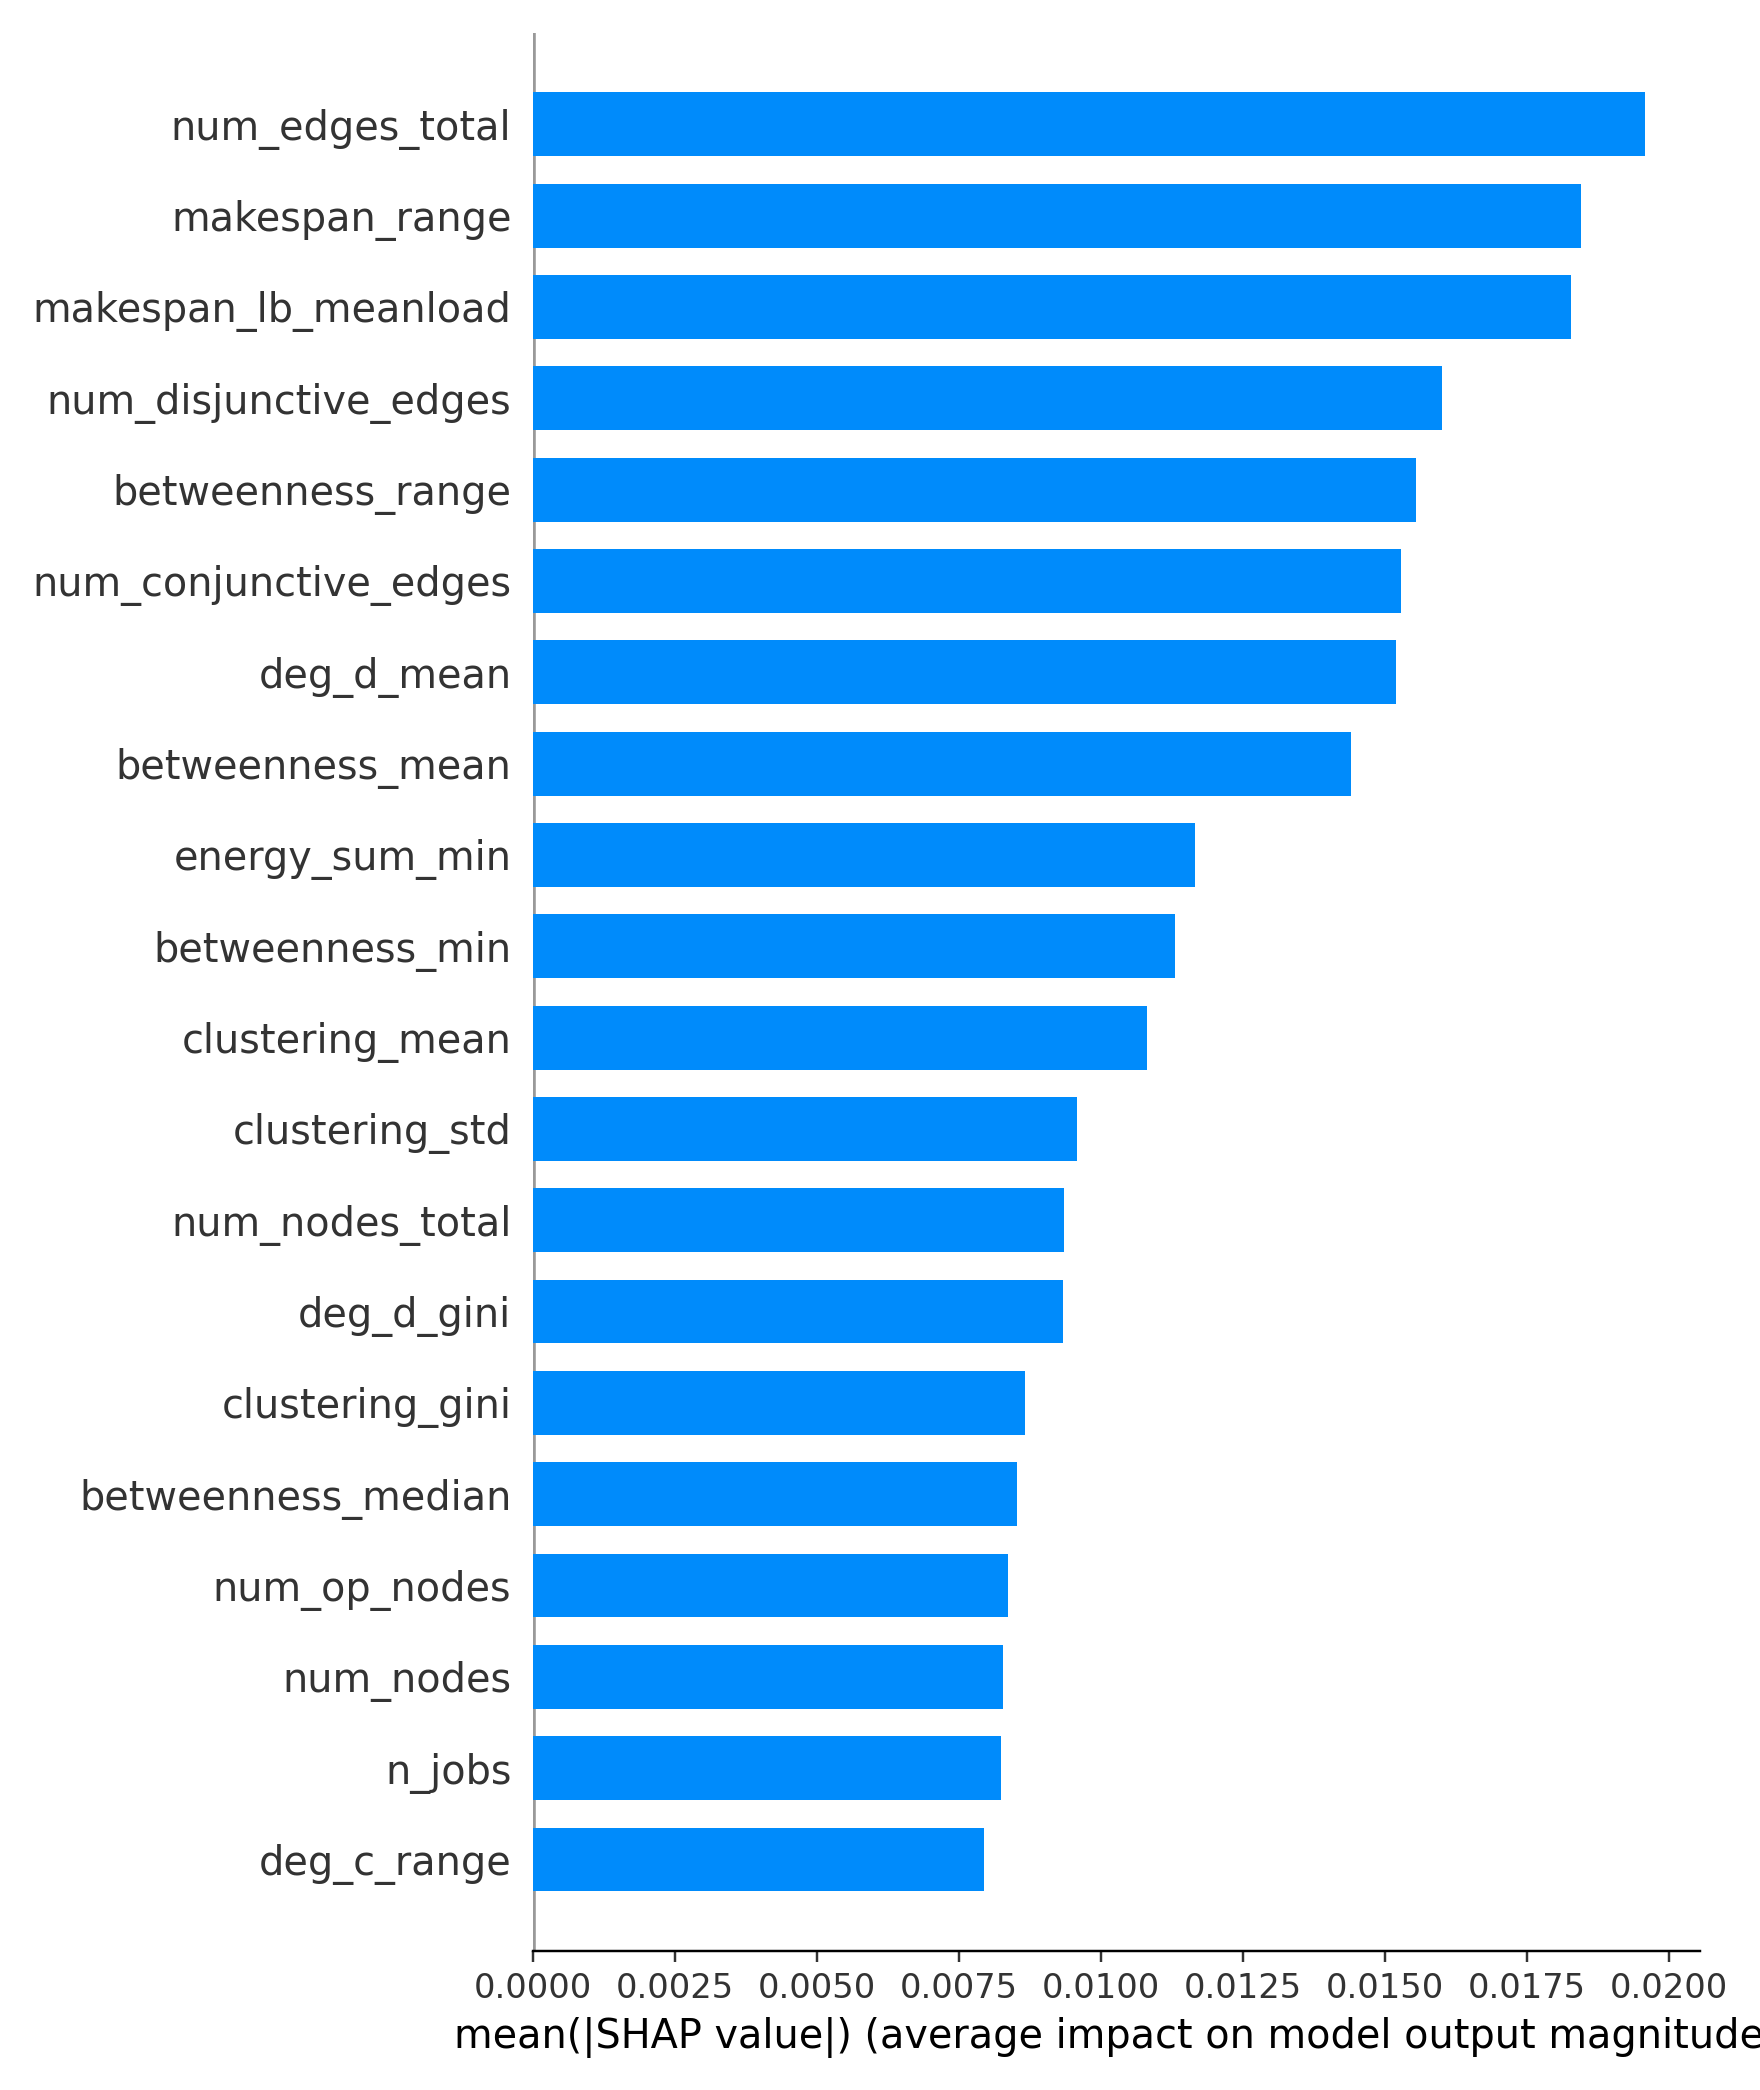
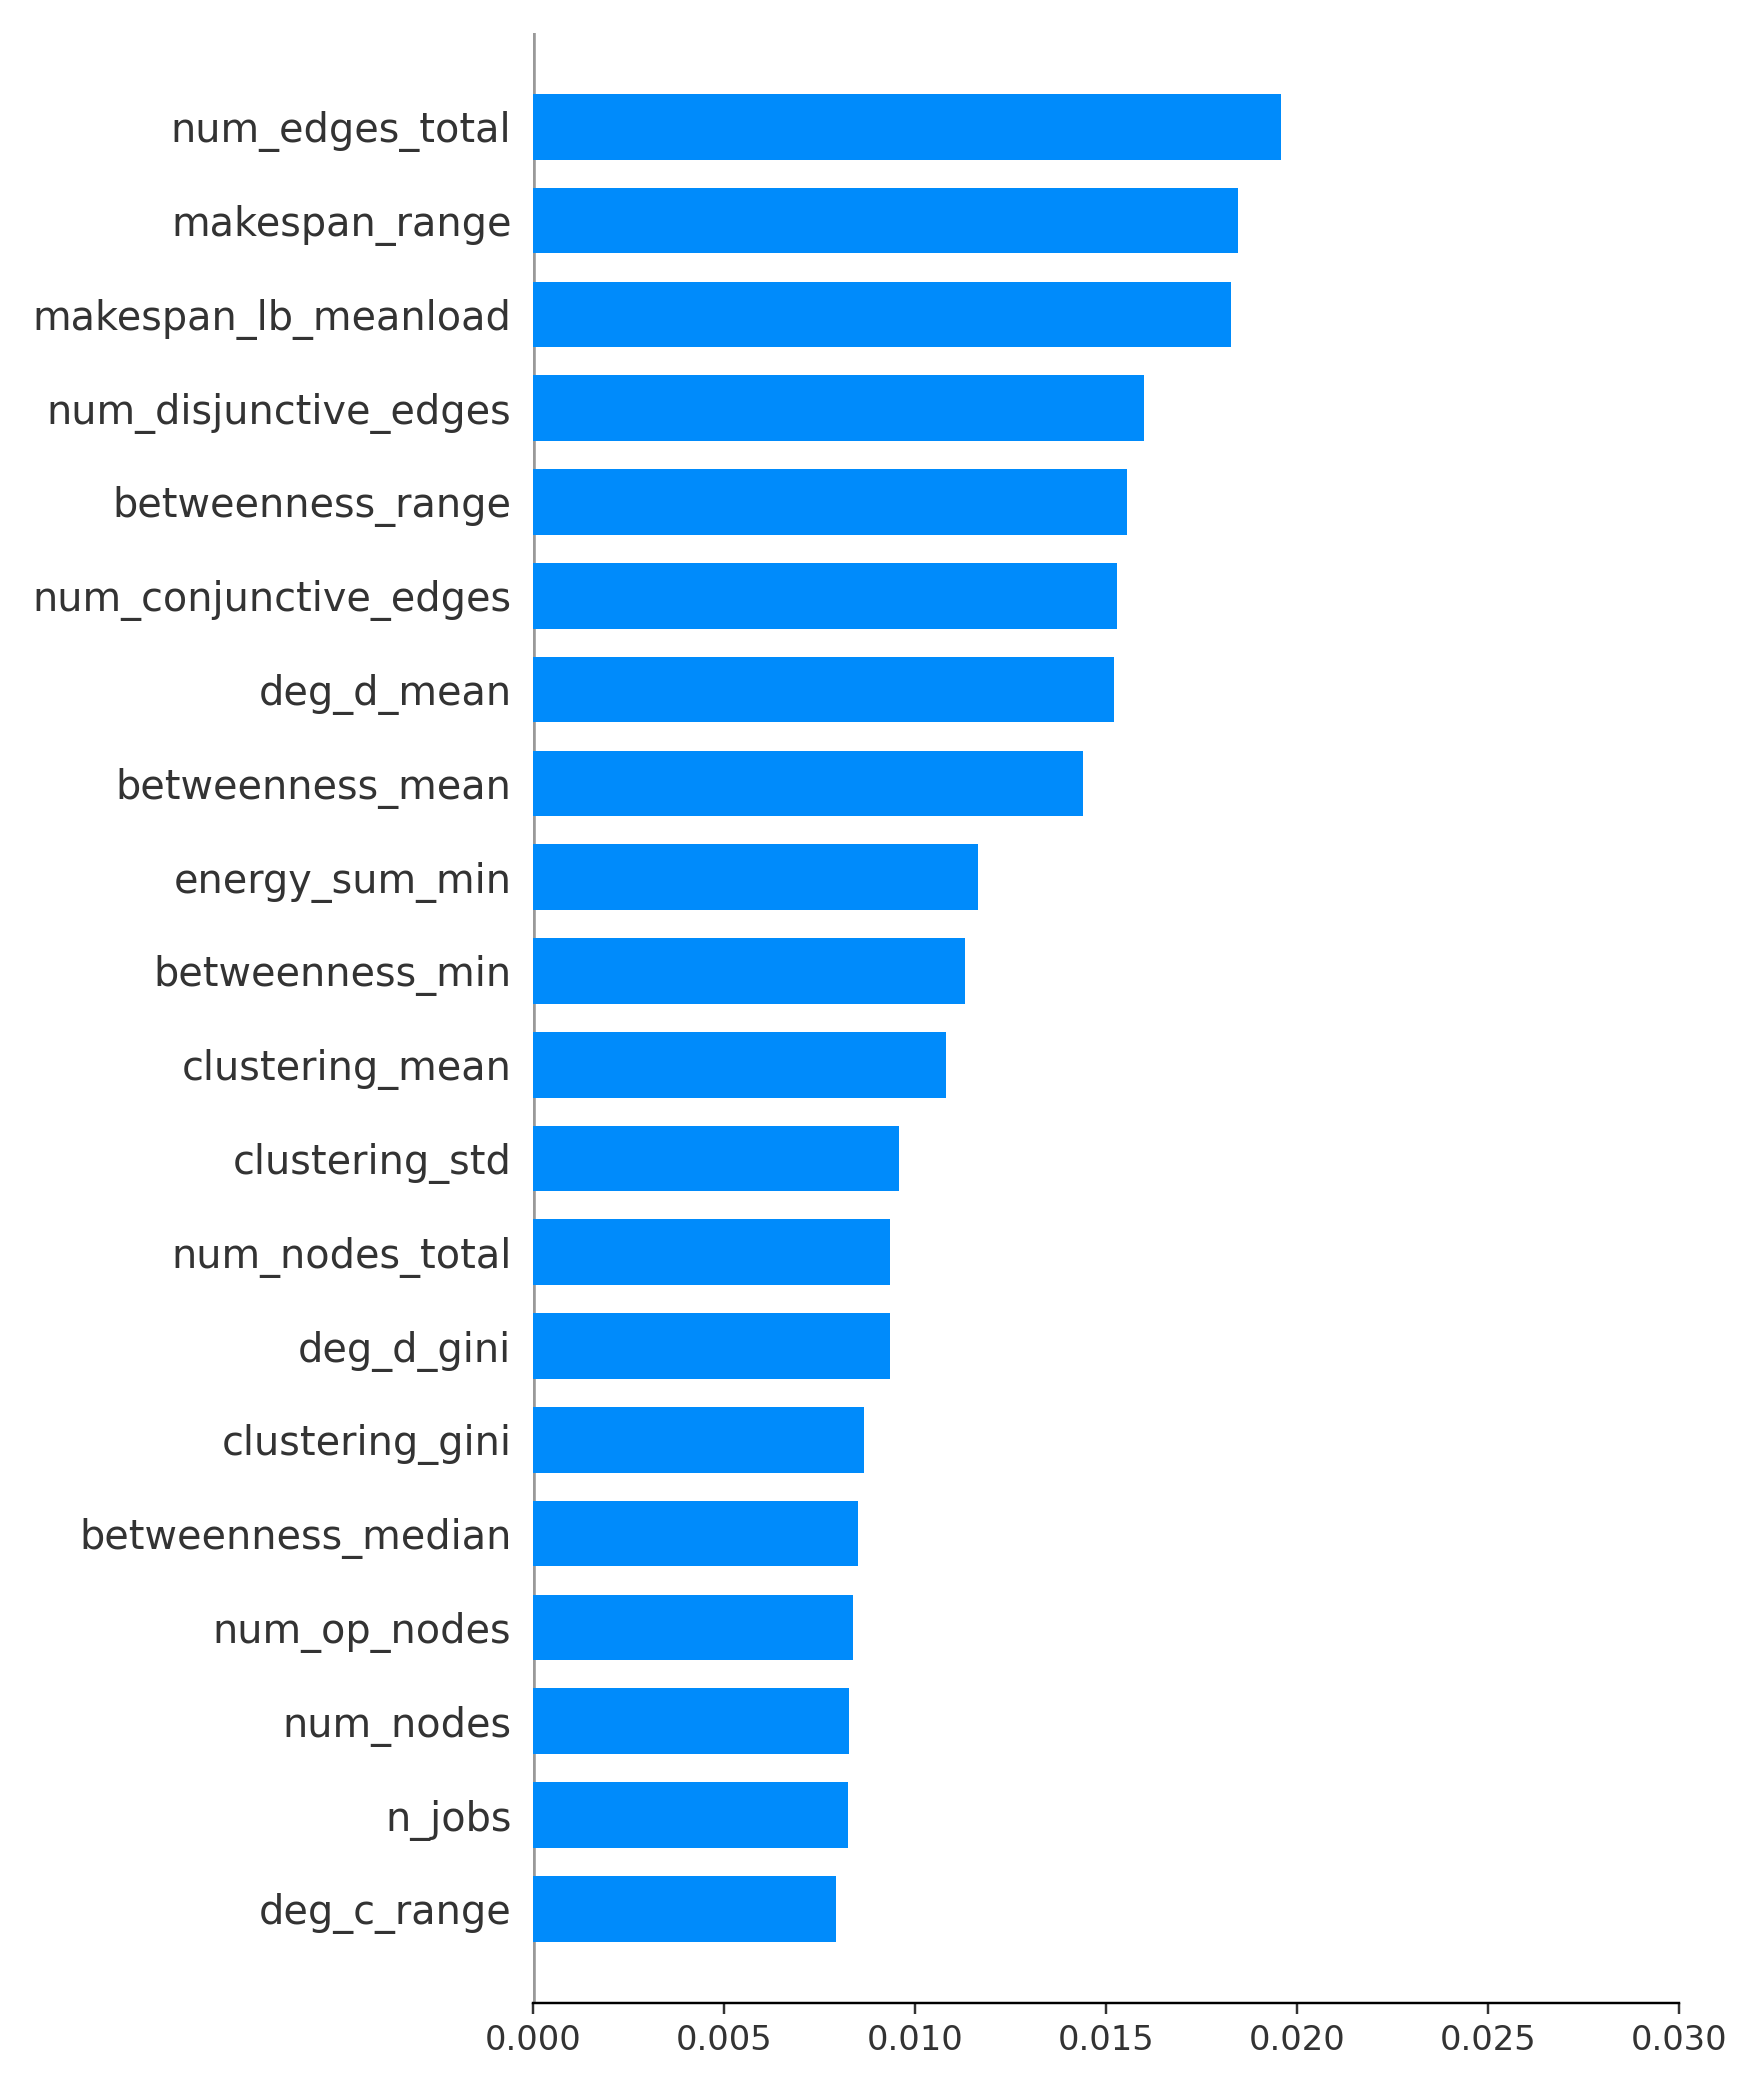
cambios en graficos

Changed region(s): [[0.0312, 0.0311, 1.0, 0.9952], [0.0312, 0.0933, 0.3125, 0.1555], [0.1562, 0.8708, 0.1875, 0.933]]

diff --git a/run_shap_supervised.py b/run_shap_supervised.py
@@ -117,7 +117,13 @@ def main():
     print(f"[model] RandomForestRegressor | CV R2 mean: {r2:.4f}")
 
     rf.fit(X[mask], ys[mask])
-
+    
+    #df_taillard = load_features("./graphs_taillard/features.json")
+    #df_num_t, dropped_all_nan_t, dropped_constant_t = coerce_features_to_numeric(df_taillard)
+    #Xt = imputer.fit_transform(df_num_t.values.astype(float))
+    
+    #yt = rf.predict(Xt)
+    
     # --- SHAP ---
     Xs = X[mask]
     Xs_df = pd.DataFrame(Xs, index=df_num.index[mask], columns=feature_names)
@@ -157,6 +163,7 @@ def main():
     # Summary plot (beeswarm)
     plt.figure()
     shap.summary_plot(shap_values_optimal, Xs_df_optimal, show=False, max_display=20)
+    plt.gca().xaxis.label.set_visible(False)
     plt.xlim(xmin, xmax)
     plt.tight_layout()
     plt.savefig(os.path.join(OUT_DIR, f"shap_summary_{ycol}_optimal.png"), dpi=220)
@@ -164,6 +171,7 @@ def main():
     
     plt.figure()
     shap.summary_plot(shap_values_feasible, Xs_df_feasible, show=False, max_display=20)
+    plt.gca().xaxis.label.set_visible(False)
     plt.xlim(xmin, xmax)
     plt.tight_layout()
     plt.savefig(os.path.join(OUT_DIR, f"shap_summary_{ycol}_feasible.png"), dpi=220)
@@ -171,6 +179,7 @@ def main():
     
     plt.figure()
     shap.summary_plot(shap_values_timeout, Xs_df_timeout, show=False, max_display=20)
+    plt.gca().xaxis.label.set_visible(False)
     plt.xlim(xmin, xmax)
     plt.tight_layout()
     plt.savefig(os.path.join(OUT_DIR, f"shap_summary_{ycol}_timeout.png"), dpi=220)
@@ -179,18 +188,24 @@ def main():
     # Bar plot
     plt.figure()
     shap.summary_plot(shap_values_optimal, Xs_df_optimal, plot_type="bar", show=False, max_display=20)
+    plt.gca().xaxis.label.set_visible(False)
+    plt.xlim(0, 0.03)
     plt.tight_layout()
     plt.savefig(os.path.join(OUT_DIR, f"shap_bar_{ycol}_optimal.png"), dpi=220)
     plt.close()
     
     plt.figure()
     shap.summary_plot(shap_values_feasible, Xs_df_feasible, plot_type="bar", show=False, max_display=20)
+    plt.gca().xaxis.label.set_visible(False)
+    plt.xlim(0, 0.03)
     plt.tight_layout()
     plt.savefig(os.path.join(OUT_DIR, f"shap_bar_{ycol}_feasible.png"), dpi=220)
     plt.close()
     
     plt.figure()
     shap.summary_plot(shap_values_timeout, Xs_df_timeout, plot_type="bar", show=False, max_display=20)
+    plt.gca().xaxis.label.set_visible(False)
+    plt.xlim(0, 0.03)
     plt.tight_layout()
     plt.savefig(os.path.join(OUT_DIR, f"shap_bar_{ycol}_timeout.png"), dpi=220)
     plt.close()

diff --git a/genTaillard.py b/genTaillard.py
@@ -1,0 +1,16 @@
+import os
+from IGJSP.generador import JSP
+
+def main():
+    
+    files = [os.path.join("./TaillardInstances", f) for f in os.listdir("./TaillardInstances")]
+    
+    for f in files:
+        a = JSP.loadTaillardFile(f)
+        a.generate_maxmin_objective_values()
+        a.EnergyConsumption = a.ProcessingTime
+        json_file = f.replace(".txt", ".json").split("\\")[-1]
+        a.saveJsonFile(os.path.join("./TaillardInstancesJSON", json_file))
+    
+if __name__ == "__main__":
+    main()
